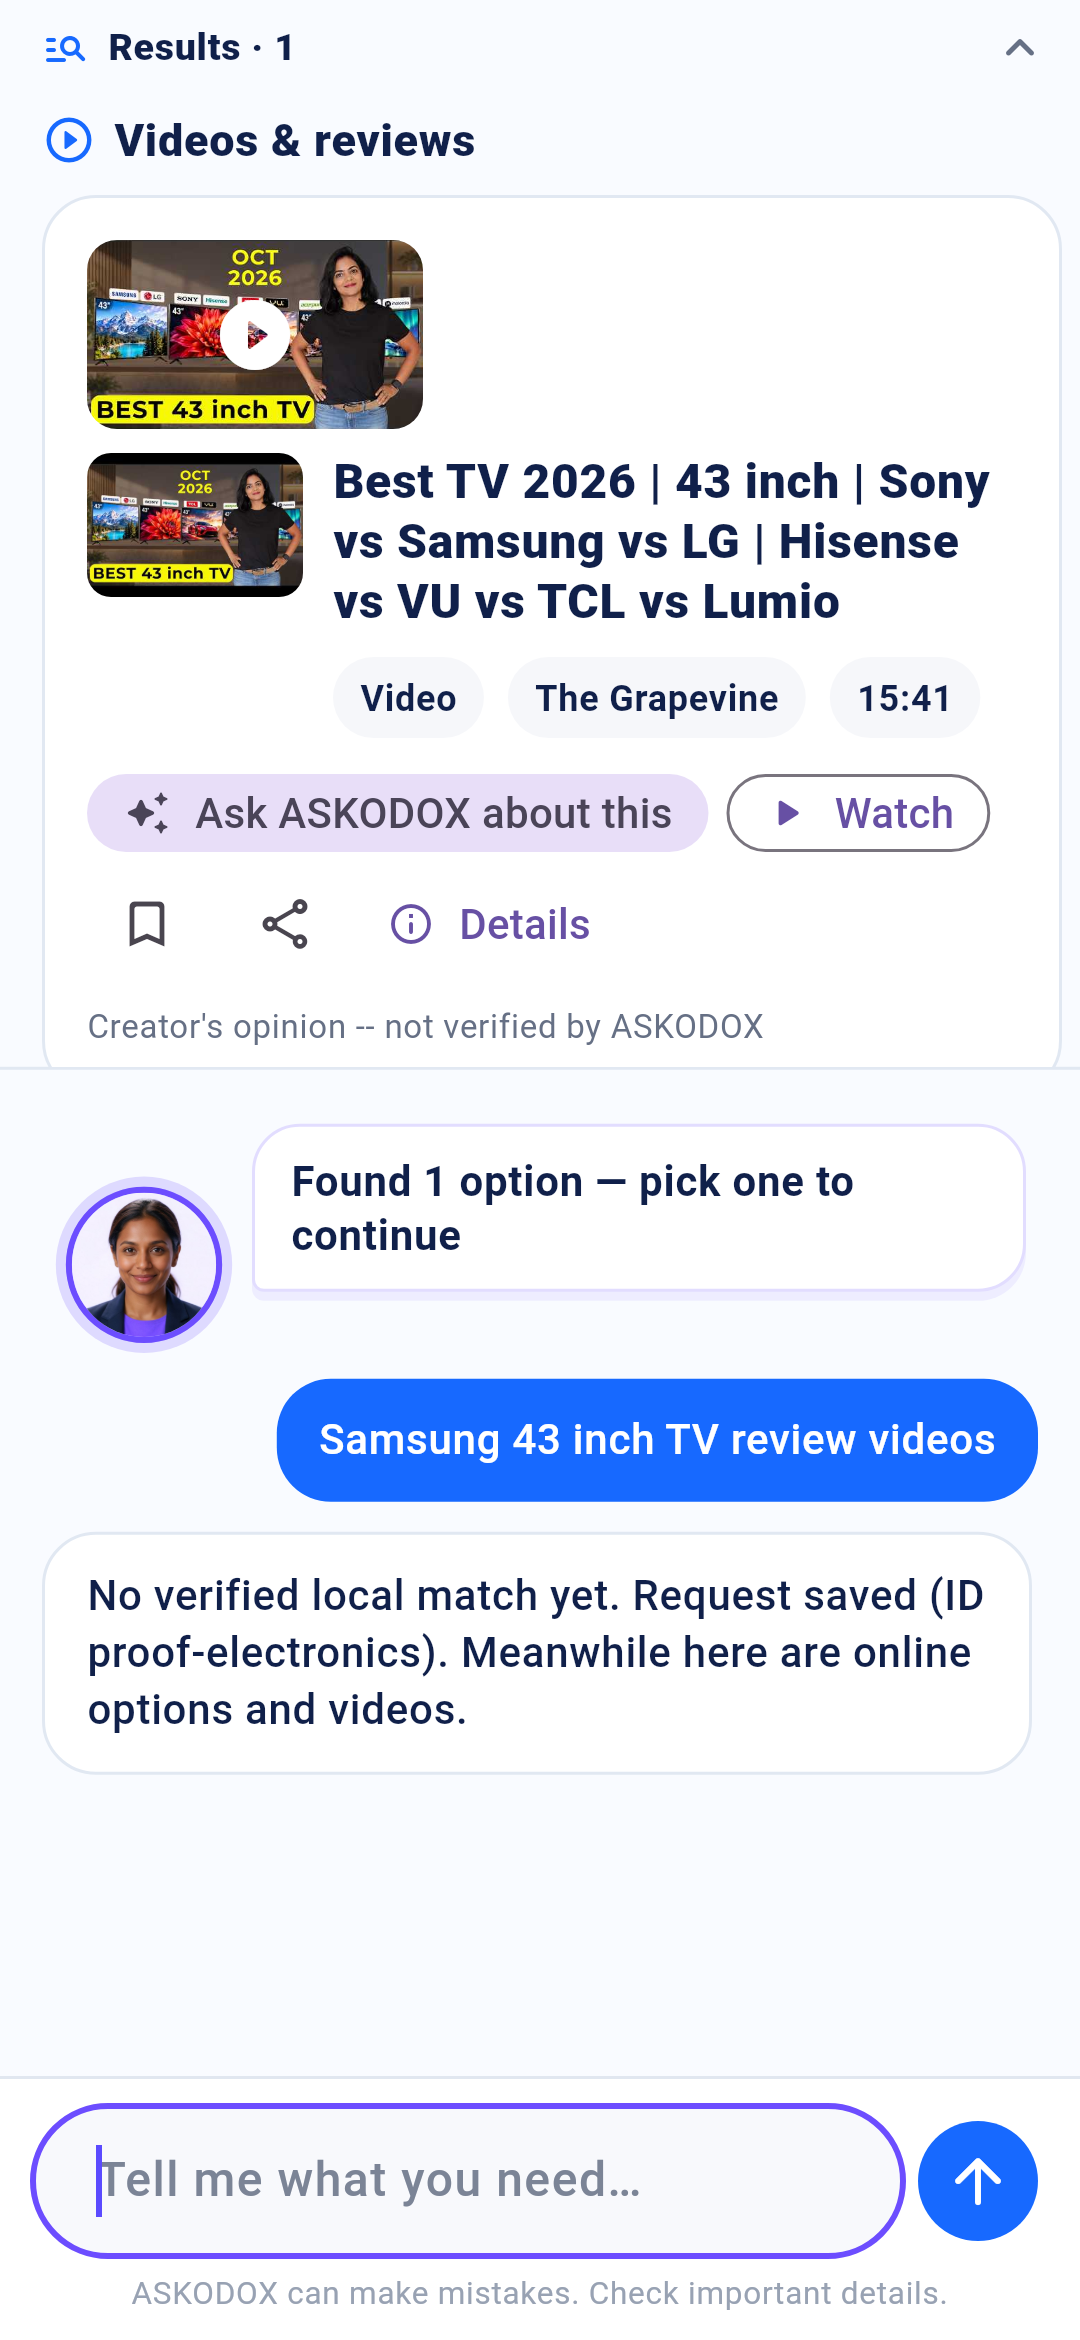
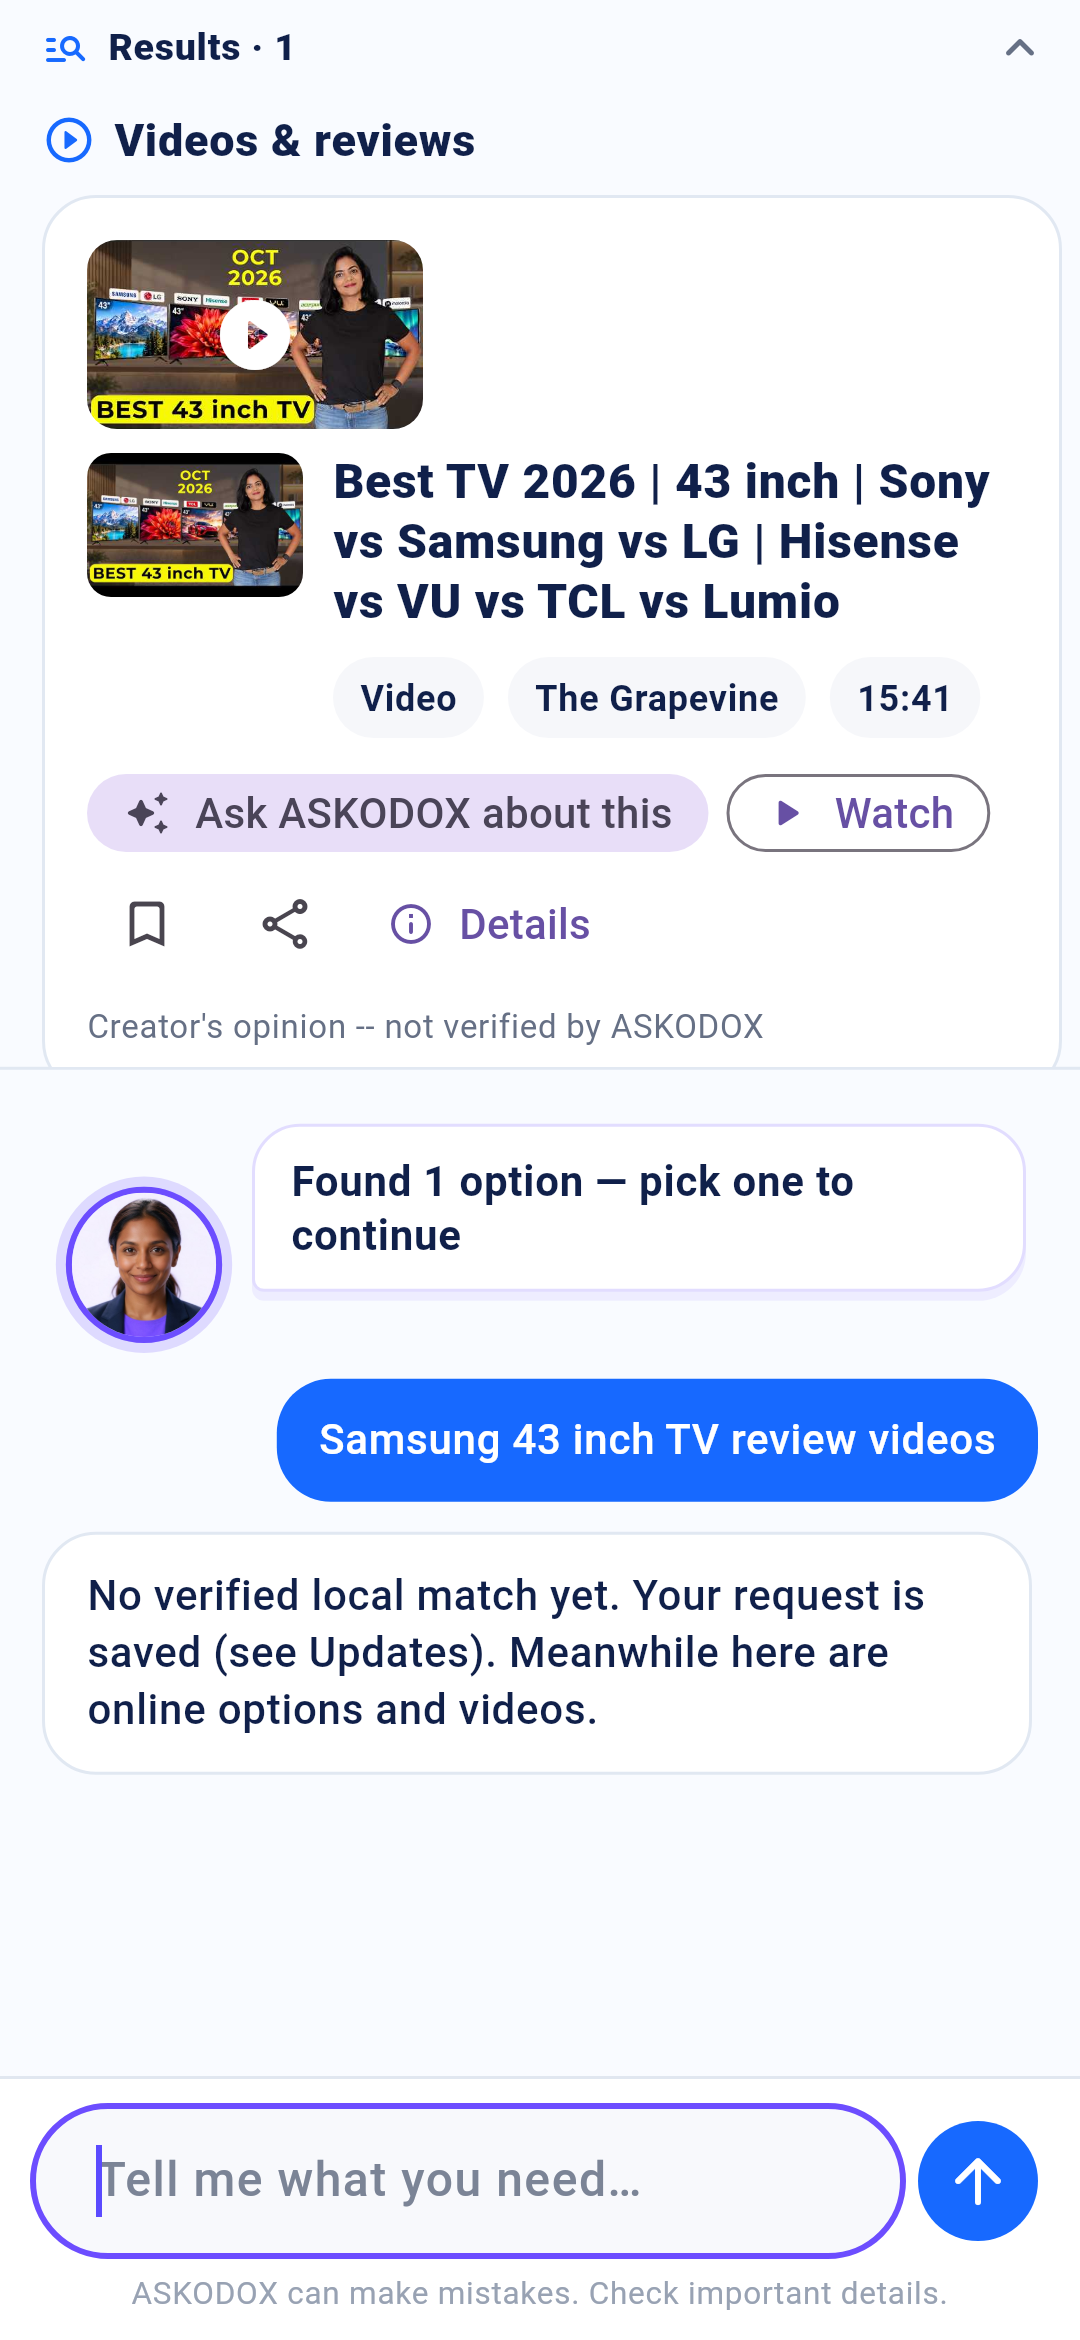
Video real-content proof (run 37286528729)

Changed region(s): [[0.0917, 0.6551, 0.9167, 0.7487]]

diff --git a/docs/video_proof/README.md b/docs/video_proof/README.md
@@ -1,6 +1,6 @@
 # Real video content proof
 
-Generated 2026-10-05T08:35:41Z by `.github/workflows/video-real-content-proof.yml` (run 37284187026).
+Generated 2026-10-05T08:57:59Z by `.github/workflows/video-real-content-proof.yml` (run 37286528729).
 
 * Video rows: **real**, from production's live web video search (Brave) -- replayed into this branch's pipeline, which adds references, YouTube oEmbed checks (live network), linking and disclosures.
 * AI answers: **real**, from the production assistant (`/api/in-app/assistant`) given exactly what the app sends (question + grounding from this branch's explain).
@@ -57,7 +57,7 @@ Label: Creator's opinion -- not verified by ASKODOX
 
 **User (follow-up, same conversation):** ఇది చిన్న గదికి సరిపోతుందా?
 
-**ASKODOX AI:** చిన్న గదికి 43 అంగుళాల టీవీ సరిపోతుందా లేదా చూడటానికి వీక్షించే దూరం మరియు గది పరిమాణం వివరాలు చెక్ చేస్తున్నాను.
+**ASKODOX AI:** చిన్న గదికి 43 అంగుళాల టీవీ సరిపోతుందా లేదా చూడటానికి వీక్షించే దూరం మరియు గది పరిమాణం వివరాలు తెలుసుకోవాలి.
 
 **Next step:** "samsung 43 inch tv offers" → Croma - Benz Circle [nearby_external]; Samsung 43-inch TVs Price List in India (September 2026) [deals]; Shop Samsung 43 Inch TVs Online Best Deals & Prices in India [deals]; Samsung 43 Inch Smart Tv - Buy Samsung 43 Inch Smart Tv online at Best Prices in India | Flipkart.com [online]
 
@@ -97,7 +97,7 @@ Label: Creator's opinion -- not verified by ASKODOX
 **Production (main) AI:** Let me check real sellers, shops and online options near you.  
 **This branch:** Let me check real sellers, shops and online options near you. (action `find_local`: the real options below are the answer; shop names never come from the AI's memory)
 
-**Next step:** "tata nexon near me" → Tata Motors Commercial Vehicle Dealer - Sahni Auto Private Limited [nearby_external]; Tata Nexon On Road Price in Vijayawada (2026) – ₹8.63 lakh Onwards | Autocar India [surplus]; Tata Nexon price in Vijayawada | Tata Nexon on road Price 2026 | Times Drive [deals]; Tata Nexon Price in Vijayawada-August 2026 Nexon On Road Price [deals]
+**Next step:** "tata nexon near me" → Tata Motors Commercial Vehicle Dealer - Sahni Auto Private Limited [nearby_external]; Tata Nexon On Road Price in Vijayawada (2026) – ₹8.63 lakh Onwards | Autocar India [surplus]; Tata Nexon price in Vijayawada | Tata Nexon on road Price 2026 | Times Drive [deals]; Tata Nexon Price in Vijayawada – On-Road Price, EMI Plans, Variants & Features | autoX [online]
 
 ### service (en) -- "AC service video"
 
@@ -173,7 +173,7 @@ Label: Creator's opinion -- not verified by ASKODOX
 **Production (main) AI:** Let me check real sellers, shops and online options near you.  
 **This branch:** Let me check real sellers, shops and online options near you. (action `find_local`: the real options below are the answer; shop names never come from the AI's memory)
 
-**Next step:** "araku valley trip reviews" → Araku Valley Tour Packages From Vijayawada – Vijayawada To Araku Valley Packages | TT [deals]; 5 Araku Valley Tour Packages at ₹6785 pp - Book Online with 20% Off [deals]; Araku Valley Tour Packages from Vijayawada | Araku Valley Packages from Vijayawada | Araku Valley Honeymoon Packages from Vijayawada | Araku Valley Holiday Pack [deals]; ARAKU VALLEY [wider_local]
+**Next step:** "araku valley trip reviews" → Araku Valley Tour Packages From Vijayawada – Vijayawada To Araku Valley Packages | TT [deals]; 5 Araku Valley Tour Packages at ₹6785 pp - Book Online with 20% Off [deals]; Araku Valley Tour Packages from Vijayawada | Araku Valley Packages from Vijayawada | Araku Valley Honeymoon Packages from Vijayawada | Araku Valley Holiday Pack [deals]; Araku Eco Stays & Travels - Paderu [wider_local]
 
 ### used-item (en) -- "used Royal Enfield Classic 350 review video"
 
@@ -227,7 +227,7 @@ Label: Creator's opinion -- not verified by ASKODOX
 
 **User (follow-up, same conversation):** ఇది చిన్న గదికి సరిపోతుందా?
 
-**ASKODOX AI:** చిన్న గదికి 1 టన్ను లేదా 1.5 టన్ను ఏసీ ఏది కావాలో చెప్పగలరా?
+**ASKODOX AI:** అవును, ఈ వీడియో చూసి మీ గదికి ఇది సరిపోతుందో లేదో తెలుసుకోవచ్చు.
 
 **Next step:** "ac service near me" → SML AC SERVICES / ELECTRICAL WORKS [nearby_external]; Professional AC service & repair experts in Vijayawada, India [online]; Split AC Services in Vijayawada [online]; Top AC Service in Vijayawada, Best AC Repair Service in Vijayawada | Sulekha Vijayawada [online]
 
